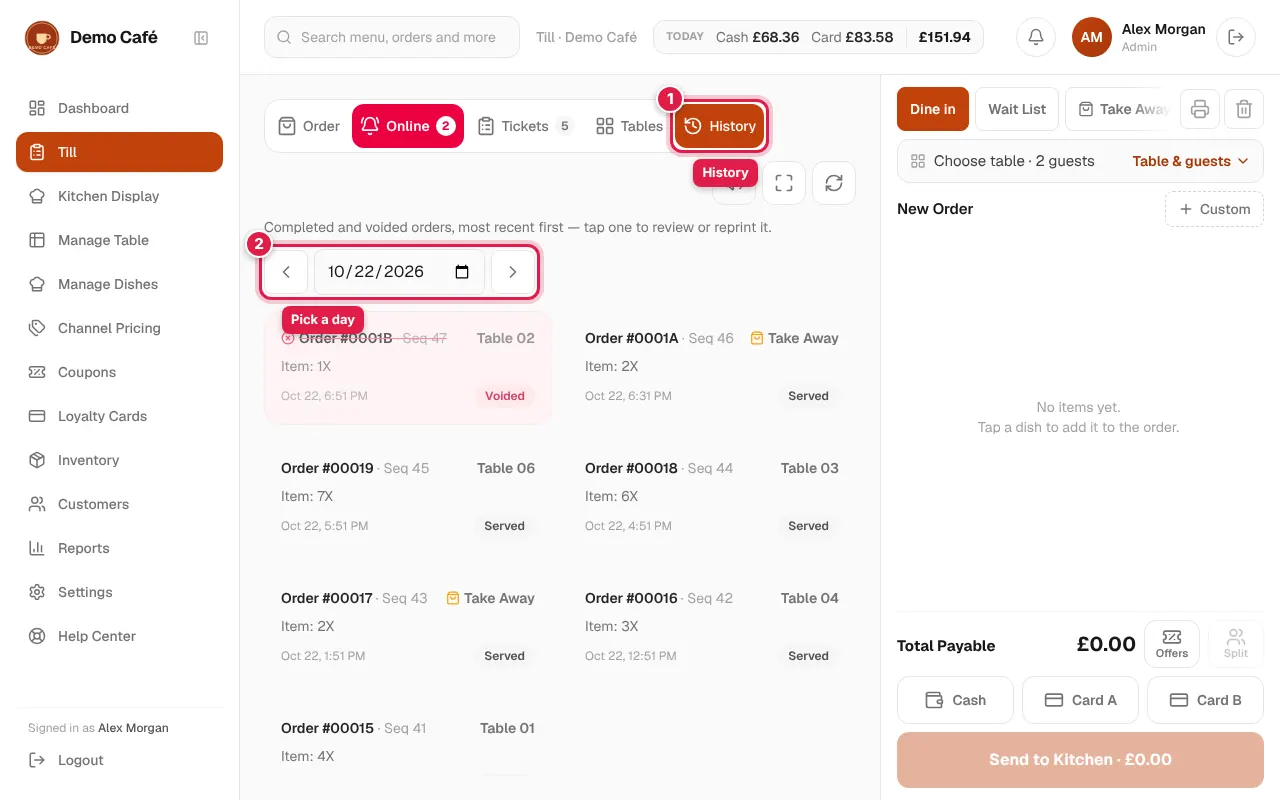
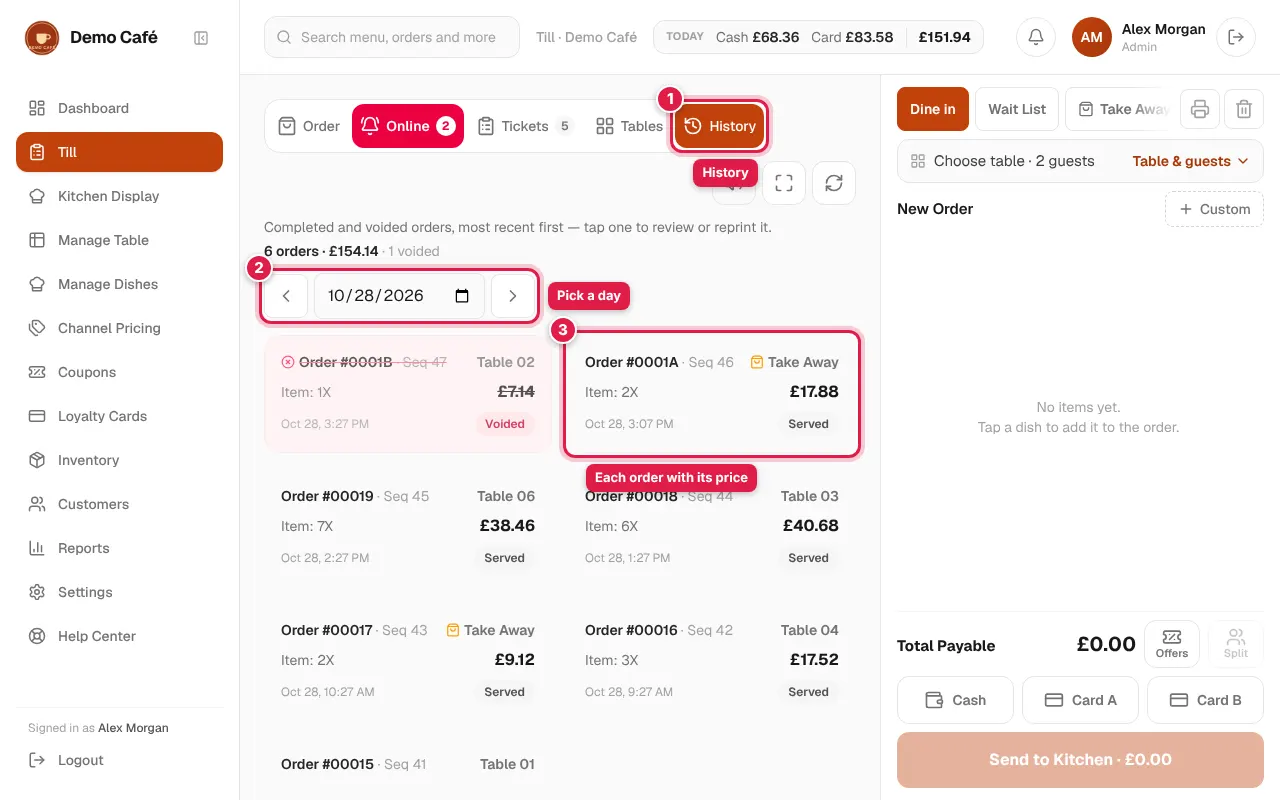
Till: show each order's price in History and Tickets, and the day's total
Order cards now show the order total (struck through when voided), and History
shows the chosen day's order count and total under its heading. FAQ answers
and their screenshots are updated.

Claude-Session: https://claude.ai/code/session_016CK48YcDk3itTQemigxFk7

diff --git a/src/app/order-line/order-line-client.tsx b/src/app/order-line/order-line-client.tsx
@@ -444,6 +444,7 @@ export function OrderLineClient({
       .filter((o) => (isOrderClosedOut(o) || o.status === "Voided") && o.createdAt >= from && o.createdAt < to)
       .sort((a, b) => b.createdAt - a.createdAt);
   }, [orders, historyDateStr, openTime, timezone]);
+  const historyCompleted = historyOrders.filter((o) => o.status !== "Voided");
 
   const priceFor = (dish: Dish) => {
     const key = cart.channel === "Third Party" ? cart.thirdPartyProvider : cart.channel;
@@ -1202,6 +1203,7 @@ export function OrderLineClient({
                   order={order}
                   selected={cart.editingOrderId === order.id}
                   onClick={() => loadOrderIntoCart(order)}
+                  currencySymbol={currencySymbol}
                 />
               ))}
               {filteredOrders.length === 0 && (
@@ -1230,9 +1232,20 @@ export function OrderLineClient({
         {view === "history" && (
           <>
             <div className="mb-4 flex shrink-0 flex-wrap items-center justify-between gap-3">
-              <p className="text-sm text-neutral-500">
-                Completed and voided orders, most recent first — tap one to review or reprint it.
-              </p>
+              <div>
+                <p className="text-sm text-neutral-500">
+                  Completed and voided orders, most recent first — tap one to review or reprint it.
+                </p>
+                {historyOrders.length > 0 && (
+                  <p className="mt-1 text-sm font-semibold text-neutral-800">
+                    {historyCompleted.length} {historyCompleted.length === 1 ? "order" : "orders"} ·{" "}
+                    {formatMoney(historyCompleted.reduce((sum, o) => sum + orderTotal(o), 0), currencySymbol)}
+                    {historyOrders.length > historyCompleted.length && (
+                      <span className="font-normal text-neutral-400"> · {historyOrders.length - historyCompleted.length} voided</span>
+                    )}
+                  </p>
+                )}
+              </div>
               <div className="flex items-center gap-1.5">
                 <button
                   onClick={() => setHistoryDateStr((d) => shiftDateKey(d, -1))}
@@ -1272,6 +1285,7 @@ export function OrderLineClient({
                   order={order}
                   selected={cart.editingOrderId === order.id}
                   onClick={() => loadOrderIntoCart(order)}
+                  currencySymbol={currencySymbol}
                 />
               ))}
               {historyOrders.length === 0 && (
@@ -2712,10 +2726,12 @@ function OrderCard({
   order,
   selected,
   onClick,
+  currencySymbol,
 }: {
   order: Order;
   selected: boolean;
   onClick: () => void;
+  currencySymbol: string;
 }) {
   const isVoided = order.status === "Voided";
   const updated = wasOrderUpdated(order);
@@ -2743,7 +2759,12 @@ function OrderCard({
             : order.channel}
         </span>
       </div>
-      <div className="text-sm text-neutral-500">Item: {order.items.reduce((s, i) => s + i.qty, 0)}X</div>
+      <div className="flex items-baseline justify-between gap-2">
+        <span className="text-sm text-neutral-500">Item: {order.items.reduce((s, i) => s + i.qty, 0)}X</span>
+        <span className={`text-base font-bold text-neutral-900 2xl:text-lg ${isVoided ? "text-neutral-400 line-through" : ""}`}>
+          {formatMoney(orderTotal(order), currencySymbol)}
+        </span>
+      </div>
       {updated && (
         <span className="flex w-fit items-center gap-1 rounded-full bg-amber-100 px-2 py-0.5 text-[11px] font-semibold text-amber-700">
           <RefreshCw className="h-3 w-3" /> Updated

diff --git a/src/app/help-center/faq.ts b/src/app/help-center/faq.ts
@@ -186,7 +186,7 @@ export const FAQ: FaqSection[] = [
       {
         id: "tickets",
         q: "Where do I find open orders and update them?",
-        a: "Tickets lists every order that's still open. Filter by type, then tap an order to load it back into the right-hand side to add items, take payment or mark it served.",
+        a: "Tickets lists every order that's still open, each with its price. Filter by type, then tap an order to load it back into the right-hand side to add items, take payment or mark it served.",
         steps: ["Tap Tickets.", "Filter: All, Dine in, Wait List, Take Away, Delivery or Served.", "Tap an order to open and edit it."],
         image: "tickets",
         who: "Everyone",
@@ -207,8 +207,8 @@ export const FAQ: FaqSection[] = [
       {
         id: "history",
         q: "Where can I see past orders?",
-        a: "History shows completed and cancelled orders, newest first. Pick any day to look back, then tap an order to review or reprint it.",
-        steps: ["Tap History.", "Use the arrows or the date box to pick a day."],
+        a: "History shows completed and cancelled orders, newest first, each with its price. Under the heading you'll see that day's number of orders and their total (voided orders are counted separately and not added in). Pick any day to look back, then tap an order to review or reprint it.",
+        steps: ["Tap History.", "Use the arrows or the date box to pick a day — the day's order count and total update.", "Tap an order to review or reprint it."],
         image: "history",
         who: "Everyone",
       },

diff --git a/docs/DEVELOPER_GUIDE.md b/docs/DEVELOPER_GUIDE.md
@@ -595,7 +595,9 @@ reconciliation tool regardless of provider.
   grows), then Total with small **Offers** (`DiscountsModal`) and **Split** (`SplitBillModal`)
   buttons, the payment buttons and the main button. Split pays each guest's share inside the
   popup via `paySplitShare` — payment lines stay one per method (`addPayment` merges), and once
-  the bill is fully paid the popup closes and calls `handlePlaceOrder`.
+  the bill is fully paid the popup closes and calls `handlePlaceOrder`. Order cards in Tickets and
+  History (`OrderCard`) show each order's price (`orderTotal`, struck through when voided), and
+  History shows the chosen day's order count and total of its non-voided orders.
 - **`mobile-till-client.tsx`** ("Simple") — a deliberately minimal quick-order flow for a
   handheld/phone screen: channel → table → menu → cart → send. It has **no** live card-charging
   overlay. As of the most recent change (§14) it can record a **Cash** payment at order time (a
@@ -790,6 +792,14 @@ conversation says so.
 > `/faq` page), re-capturing the marked screenshot in `public/help/` when the screen changed. A
 > change without all three is not done. This guide plus that FAQ are the source for the final
 > project documentation, so both must always match the live system. (Also in `CLAUDE.md`.)
+
+### 2026-10-28 — Prices on Till order cards; day total in History
+- Every order card in the Till's Tickets and History views shows the order's price
+  (`orderTotal` — discounts and tax included), struck through for voided orders.
+- History shows the chosen day's order count and total under its heading, e.g. "6 orders ·
+  £154.14 · 1 voided" (voided orders are counted, not added). This is the sum of order totals,
+  so it can differ from the header's TODAY figure, which adds up payments actually taken.
+- FAQ: History and Tickets answers mention the prices; both screenshots re-captured.
 
 ### 2026-10-23 — Printer setup for Super Admin / regional admins, setup kit and scripts
 - **Super Admin → Printers** (sidebar, super and regional admins): pick a restaurant and add,
